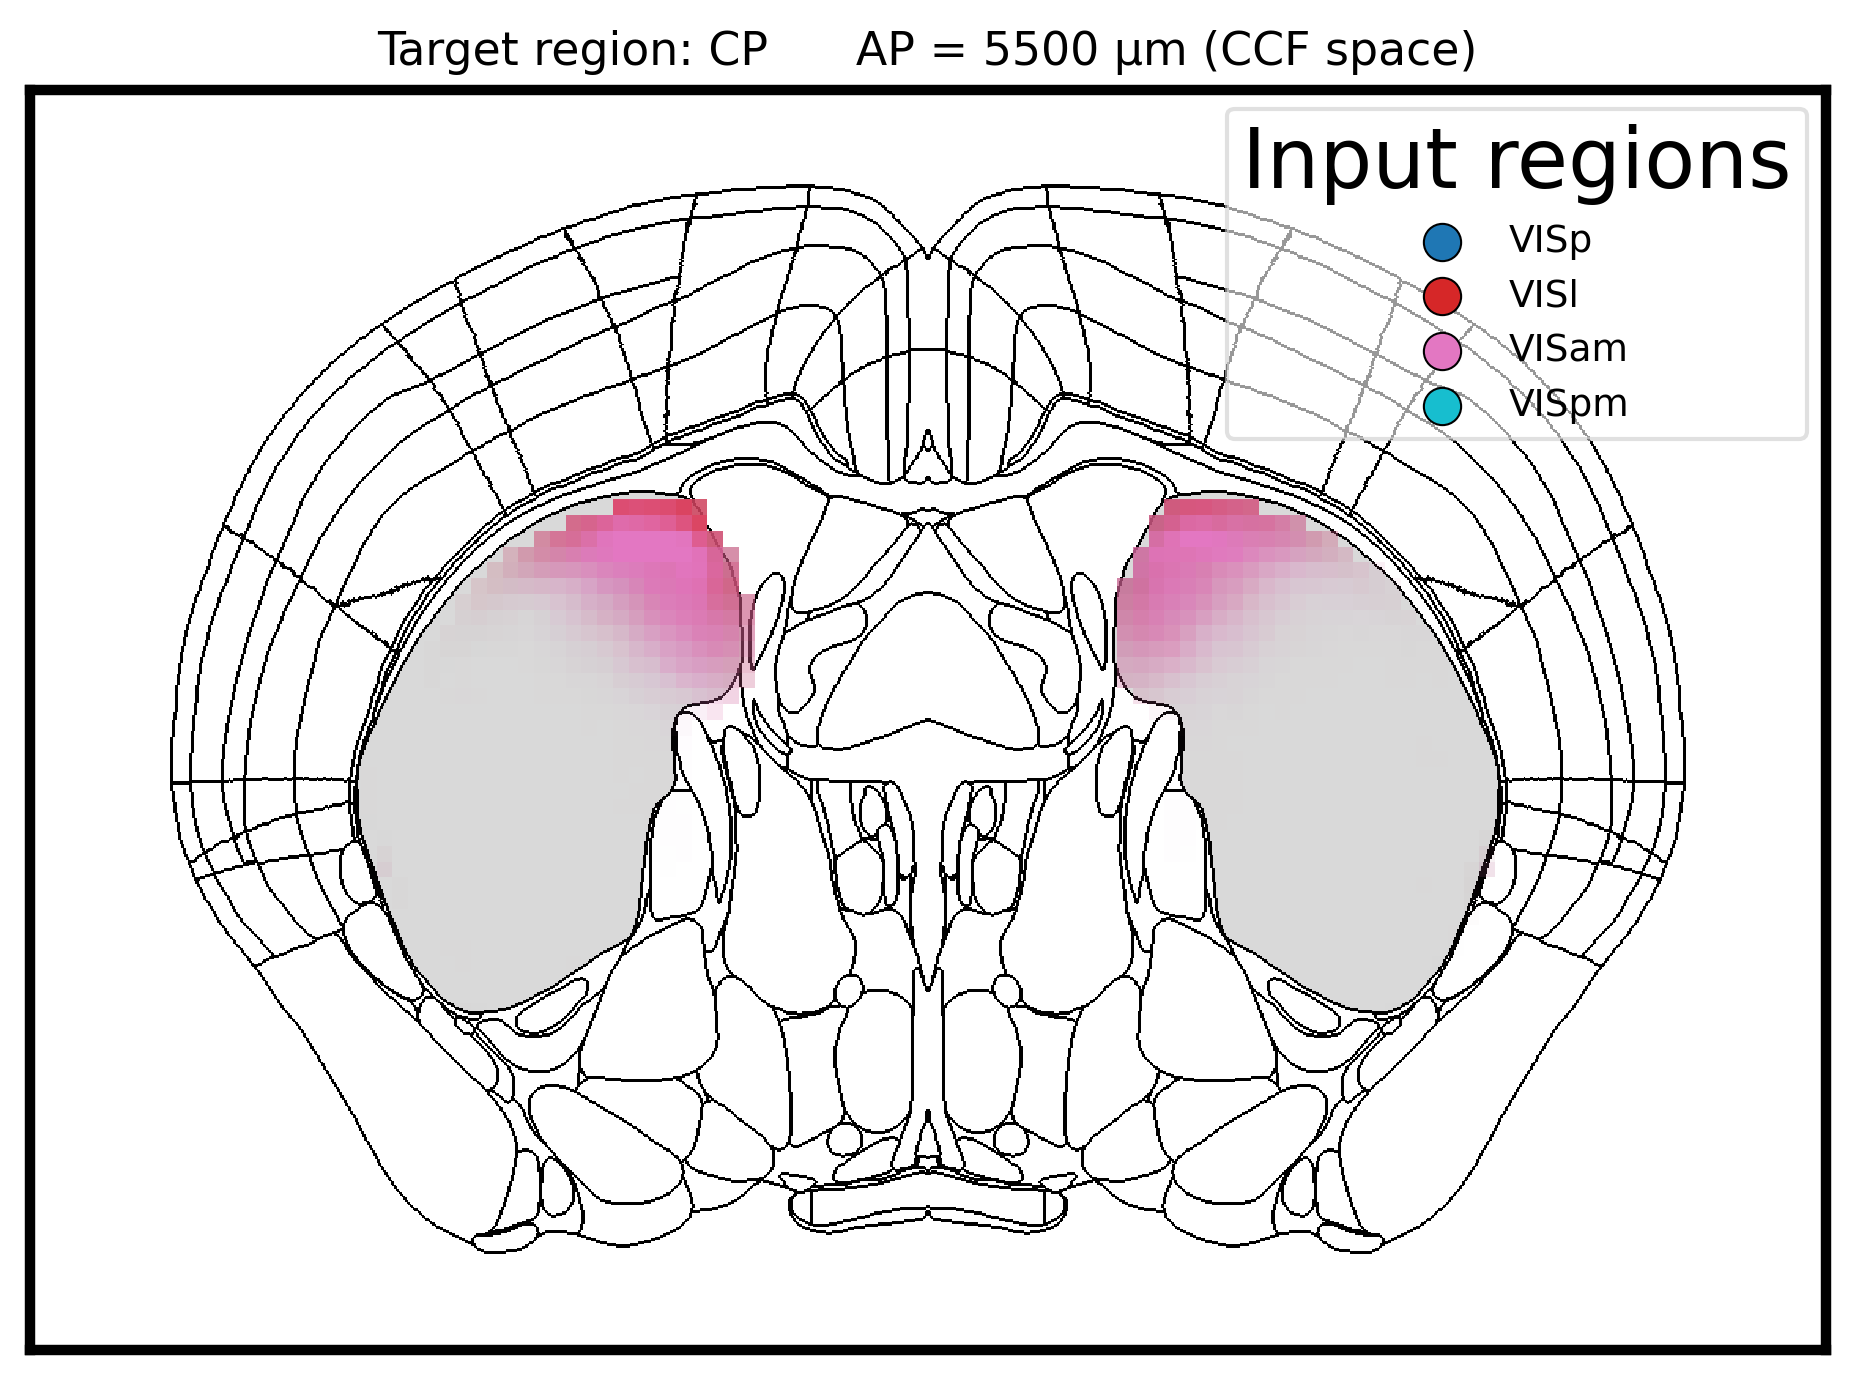
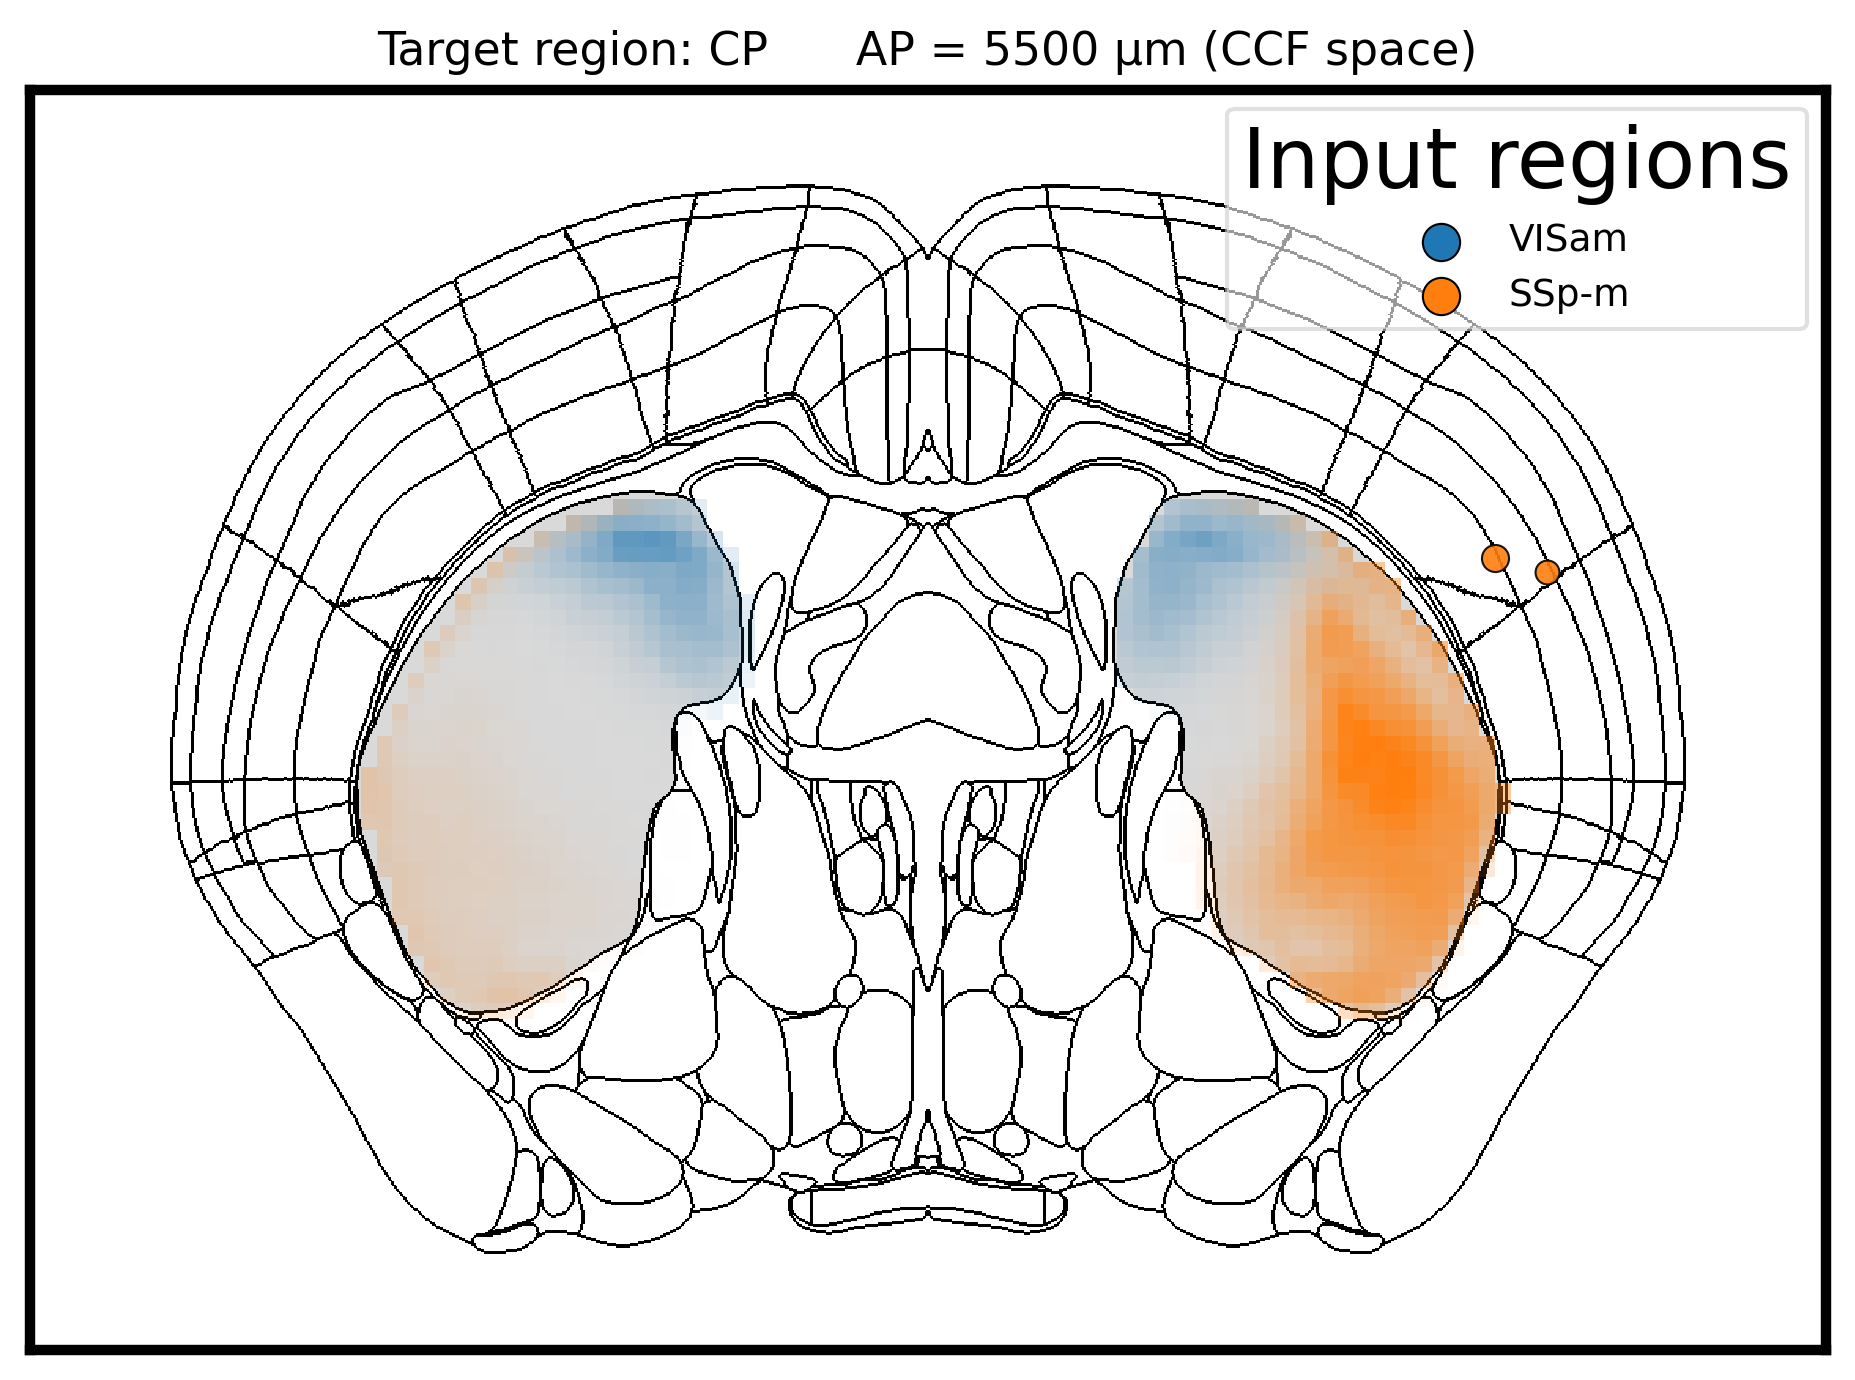
upstream docs and gif

diff --git a/bsv/plot_upstream_projectome.py b/bsv/plot_upstream_projectome.py
@@ -99,8 +99,11 @@ def plot_upstream_projectome(experiment_ids, source_regions, target_region, save
     valid_ids = [e for e in experiment_ids if e in exp_to_region]
 
     # ------------------------------------------------------- colours (tab10)
-    cmap = plt.cm.get_cmap('tab10', max(len(source_regions), 1))
-    region_colors = {reg: np.array(cmap(i)[:3]) for i, reg in enumerate(source_regions)}
+    # Index tab10's discrete palette directly (blue, orange, green, ...) so the
+    # source regions get maximally-distinct hues — this matters where two
+    # regions overlap the same target voxel and their colours alpha-blend.
+    cmap = plt.cm.get_cmap('tab10')
+    region_colors = {reg: np.array(cmap(i % 10)[:3]) for i, reg in enumerate(source_regions)}
 
     # ----------------------------------------- load density volumes & metadata
     print(f"Loading {len(valid_ids)} experiment volumes...")

diff --git a/docs/generate_images.py b/docs/generate_images.py
@@ -130,8 +130,8 @@ matrix, fig = bsv.plot_connectivity_matrix(
 save_current('plot_connectivity_matrix.png')
 
 # ── 8. Interactive upstream projectome (static snapshot of one AP slice) ──
-print('Generating: upstream projectome snapshot (visual areas → CP)...')
-proj_src_regions = ['VISp', 'VISl', 'VISam', 'VISpm']
+print('Generating: upstream projectome snapshot (VISam + SSp-m → CP)...')
+proj_src_regions = ['VISam', 'SSp-m']
 proj_src_ids = bsv.find_connectivity_experiments(proj_src_regions)
 bsv.plot_upstream_projectome(
     proj_src_ids, proj_src_regions, 'CP', save_location, allen_atlas_path,

diff --git a/paper.md b/paper.md
@@ -55,13 +55,13 @@ BSV is organized as a four-step pipeline:
 
 All functions accept extensive configuration through keyword arguments, allowing users to customize atlas resolution, normalization method, colormap, threshold strategy, and output format. Data downloaded from the Allen API is cached locally to avoid redundant network requests.
 
-![**Figure 1.** 2D coronal slices showing projection density from antero-medial visual cortex (VISam) to the caudate putamen (CP), across 10 evenly spaced anterior-posterior levels. Each panel shows the mean projection density within the CP boundary (blue outline), with darker values indicating stronger projections.\label{fig:plot2d}](images/docs/plot_2d_VISam_CP.png)
+![**Figure 1.** Interactive upstream projectome (`plot_upstream_projectome`), shown here as a single coronal slice (Allen CCF, 5500 µm). Projections into the caudate putamen from antero-medial visual cortex (VISam) and primary somatosensory cortex, mouth region (SSp-m) are overlaid in distinct colours on the atlas structure boundaries; where projections from both sources overlap the same voxel the colours alpha-blend. In the interactive widget an anterior-posterior slider scrolls through the brain, and injection-site dots appear at their own AP levels.\label{fig:projectome}](images/docs/plot_upstream_projectome_CP.png)
 
-![**Figure 2.** VISam projections to the caudate putamen grouped by the anterior-posterior (AP) location of the *injection site*. Experiments are binned into equal-width AP levels (three here); each row shows the mean projection density for one level, labelled with the mean injection-site AP coordinate in Allen CCF space (µm; larger values are more posterior). This reveals how projection topography in the CP varies with injection AP location. Scale bar: 1 mm.\label{fig:ap_grouped}](images/docs/plot_ap_grouped_VISam_CP.png)
+![**Figure 2.** 3D rendering of VISam injection sites (teal dots) overlaid on a transparent volume of the mouse brain, with the caudate putamen highlighted. Dot size reflects injection volume.\label{fig:plot3d}](images/docs/plot_3d_VISam_CP.png)
 
-![**Figure 3.** 3D rendering of VISam injection sites (teal dots) overlaid on a transparent volume of the mouse brain, with the caudate putamen highlighted. Dot size reflects injection volume.\label{fig:plot3d}](images/docs/plot_3d_VISam_CP.png)
+![**Figure 3.** 2D coronal slices showing projection density from antero-medial visual cortex (VISam) to the caudate putamen (CP), across 10 evenly spaced anterior-posterior levels. Each panel shows the mean projection density within the CP boundary (blue outline), with darker values indicating stronger projections.\label{fig:plot2d}](images/docs/plot_2d_VISam_CP.png)
 
-![**Figure 4.** Interactive upstream projectome (`plot_upstream_projectome`), shown here as a single coronal slice (Allen CCF, 5500 µm). Projections into the caudate putamen from four visual cortical areas are overlaid in distinct colours on the atlas structure boundaries; in the interactive widget an anterior-posterior slider scrolls through the brain, and injection-site dots appear at their own AP levels.\label{fig:projectome}](images/docs/plot_upstream_projectome_CP.png)
+![**Figure 4.** VISam projections to the caudate putamen grouped by the anterior-posterior (AP) location of the *injection site*. Experiments are binned into equal-width AP levels (three here); each row shows the mean projection density for one level, labelled with the mean injection-site AP coordinate in Allen CCF space (µm; larger values are more posterior). This reveals how projection topography in the CP varies with injection AP location. Scale bar: 1 mm.\label{fig:ap_grouped}](images/docs/plot_ap_grouped_VISam_CP.png)
 
 ![**Figure 5.** Quantitative subregion analysis from `analyze_cp_subregions`. Projections from visual cortical areas are decomposed into anatomical subdivisions of the caudate putamen and nucleus accumbens (defined by the Allen v2 atlas), yielding the mean projection fluorescence intensity per subregion and identifying which striatal subregions receive the strongest input.\label{fig:subregions}](images/docs/striatum_subregions.png)
 

diff --git a/docs/interactive_viewer.md b/docs/interactive_viewer.md
@@ -24,7 +24,7 @@ drives this; injection-site dots appear at their own (more posterior) AP levels.
 import bsv
 
 # Find experiments injected in the chosen source regions
-source_regions = ['VISp', 'VISl', 'VISam', 'VISpm']
+source_regions = ['VISam', 'SSp-m']
 experiment_ids = bsv.find_connectivity_experiments(source_regions)
 
 # Launch the interactive AP-slider viewer (in a Jupyter notebook)